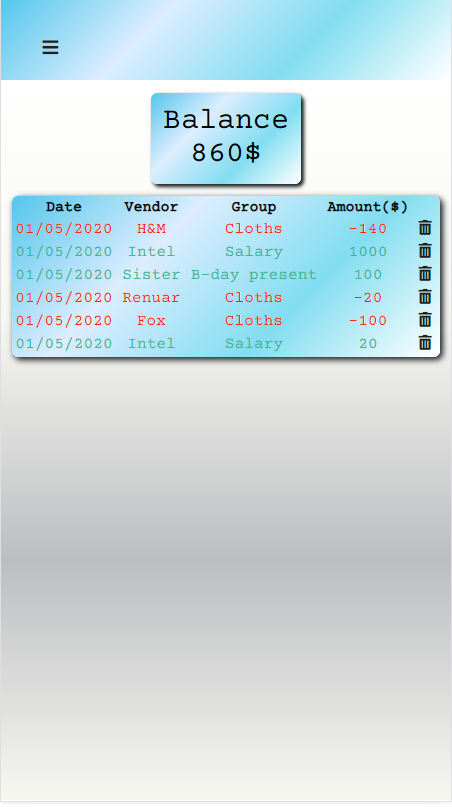
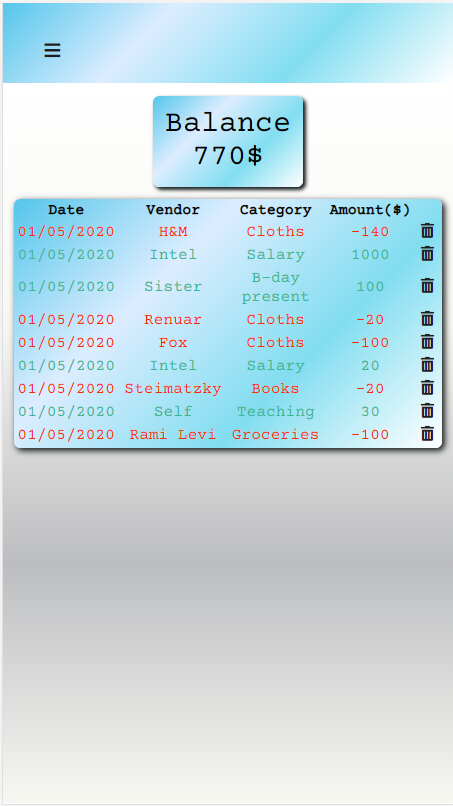
images update

diff --git a/src/components/Transactions.jsx b/src/components/Transactions.jsx
@@ -8,7 +8,7 @@ class Transactions extends Component {
         return (
             this.props.transData.length ? <div id="transactions">
                 <table>
-                <tr className="transaction title"><th className = "title-col">Date</th><th className ="title-col">Vendor</th> <th className = "title-col">Group</th> <th className = "title-col">{'Amount($)'}</th></tr>
+                <tr className="transaction title"><th className = "title-col">Date</th><th className ="title-col">Vendor</th> <th className = "title-col">Category</th> <th className = "title-col">{'Amount($)'}</th></tr>
                 {this.props.transData.map(t => <Transaction key={t._id} singleTransData={t} id={t._id} firstToUpperCase = {this.props.firstToUpperCase} removeTransaction={this.props.removeTransaction} />)}
                 </table>
             </div> : <p className = "nothing-to-display">No transactions to display</p>

diff --git a/src/components/MonthlyBreakdown.jsx b/src/components/MonthlyBreakdown.jsx
@@ -22,7 +22,7 @@ class MonthlyBreakdown extends Component {
             <div id="monthly-breakdown">
                 <div className="month-name">{this.props.match.params.month}</div>
                 <table id="monthly-breakdown-table">
-                    <tr id="monthlyBreak-title" className="group title"><th>Group</th> <th>{'Total($)'}</th></tr>
+                    <tr id="monthlyBreak-title" className="group title"><th>Category</th> <th>{'Total($)'}</th></tr>
                     {categories.map(c => {
                         return <tr className={groupedBalance[c] > 0 ? "group positive grouped-trans" : "group negative grouped-trans"}>
                             <td className={c}>{this.firstToUpperCase(c)}</td>

diff --git a/src/components/Breakdown.jsx b/src/components/Breakdown.jsx
@@ -21,7 +21,7 @@ class Breakdown extends Component {
                 {transactions.length ?
                     <div id="breakdown" >
                         <table id="breakdown-table">
-                            <tr className="group title"><th>Group</th> <th>{'Total($)'}</th></tr>
+                            <tr className="group title"><th>Category</th> <th>{'Total($)'}</th></tr>
                             {this.props.balance.map(g => {
                                 return (
                                     <tr className={g.amount > 0 ? "group positive transaction" : "group negative transaction"}>

diff --git a/src/App.css b/src/App.css
@@ -217,19 +217,16 @@ color: black;
 }
 
 #monthly-breakdown{
-  margin-top: 15px;
   display: flex;
+  position: inherit;
   flex-direction: column;
-  position: absolute;
-  bottom: 0;
+  position: inherit;
   justify-content: center;
   padding-right: 10px;
   padding-left: 5px;
   background-image: linear-gradient(-45deg,white,#82DDF0,#DCEDFF,#54C6EB);
   border-radius: 5px;
-  margin: 10px;
   text-align: center;
-  width: fit-content;
   box-shadow: 2px 2px 3px #1B2021;
 } 
 
